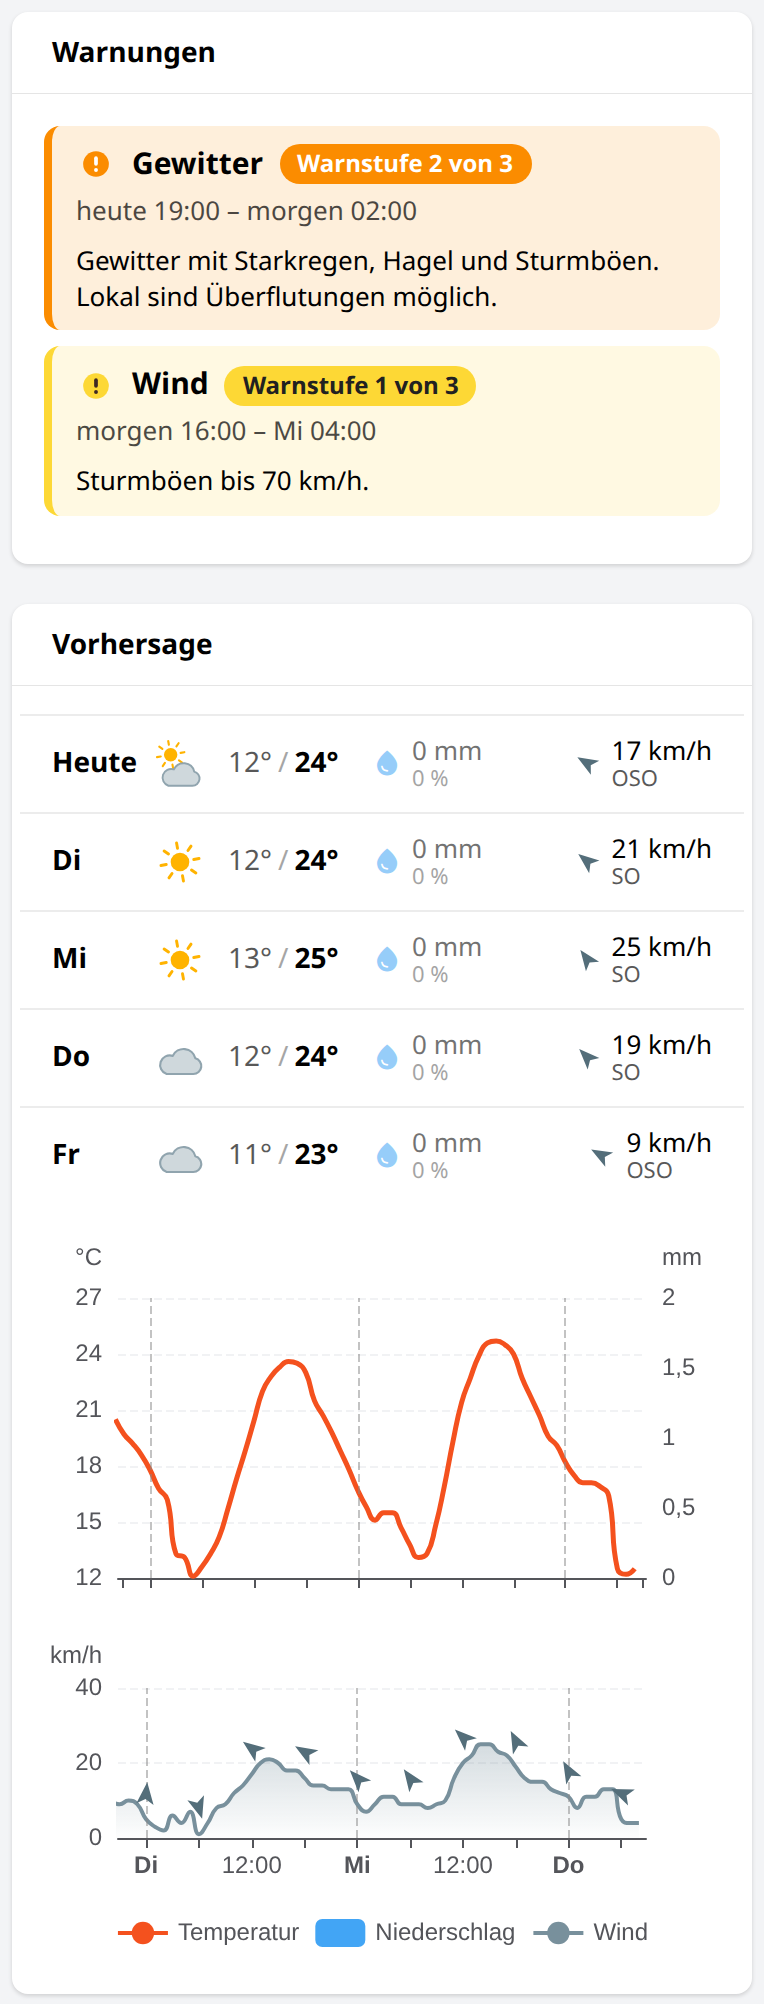
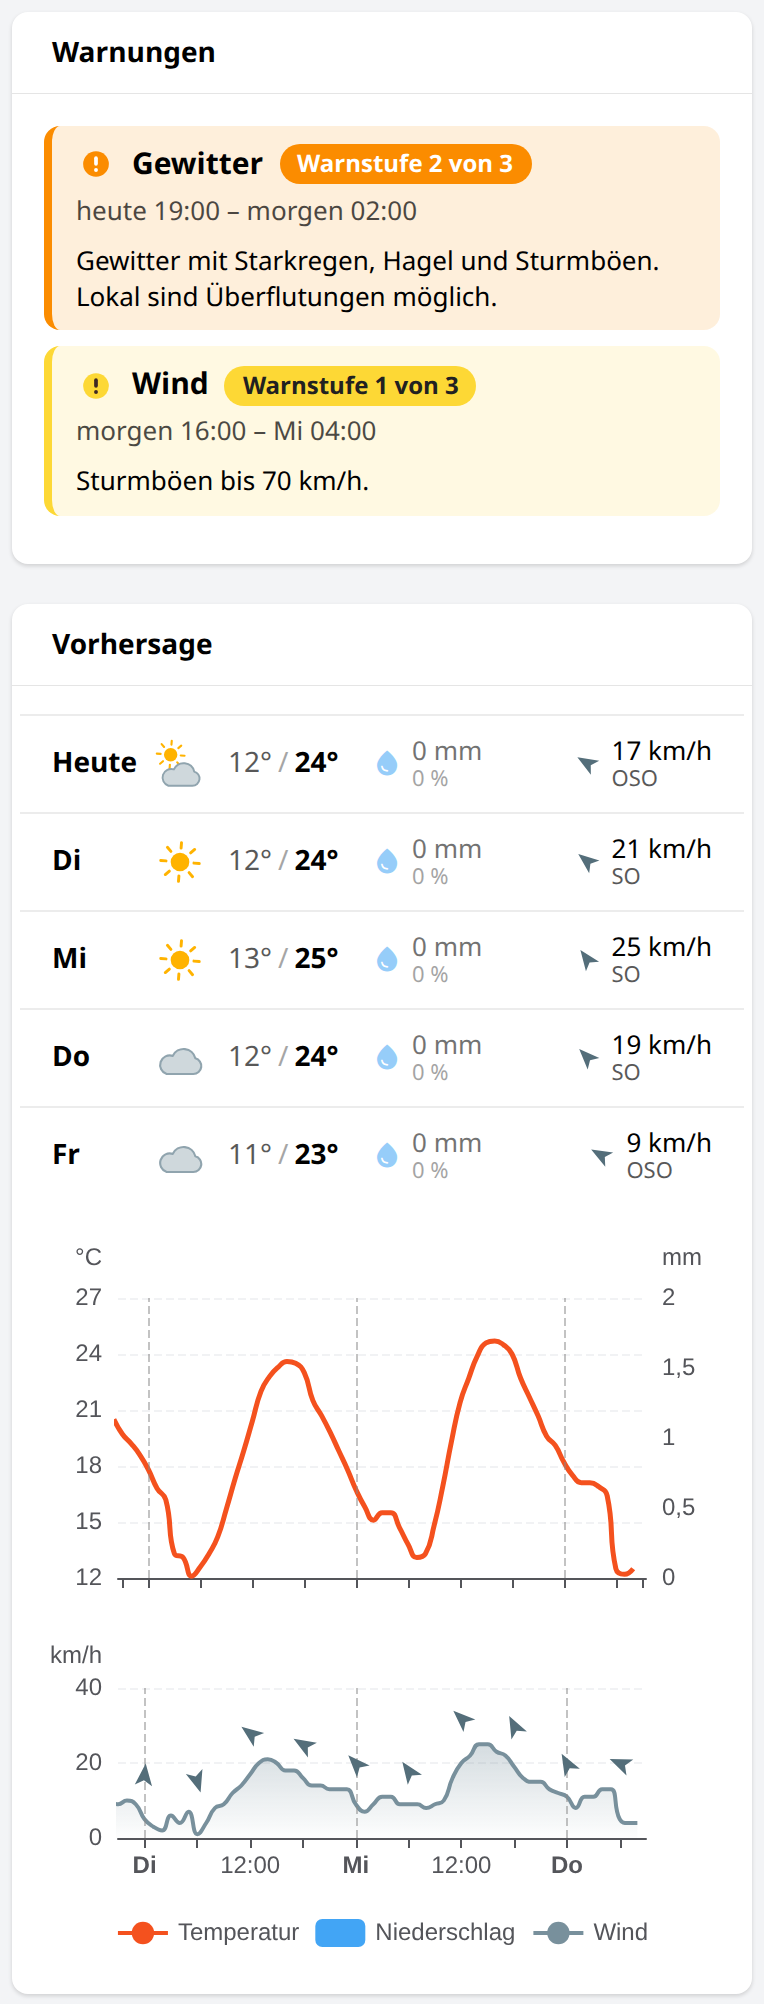
scripts: wind arrows clear of a steep wind line
- Each arrow of the forecast chart stands over the strongest wind from two
  hours before to two after its time, as wide as an arrow is on the time
  axis, so a line rising beside it no longer touches it
- Forecast popup screenshots retaken

diff --git a/scripts/openhab-ui/dashboard.py b/scripts/openhab-ui/dashboard.py
@@ -941,13 +941,17 @@ def wx_wind_arrow(deg, size, visible):
 
 
 def wx_wind_arrows():
-    """The wind's direction along its line, every three hours, every six on a phone: arrows a little above it."""
+    """The wind's direction along its line, every three hours, every six on a phone: arrows a little above it. Each
+    stands over the strongest wind from two hours before to two after, as wide as an arrow is on the time axis, so
+    a steep line beside it never touches it."""
     every = f"({NARROW} ? 6 : 3)"
-    rows = f"{wx_json(WX_HOURLY)}.filter((r) => r[3] != null && r[4] != null && dayjs(r[0] * 1000).hour() % {every} === 0)"
+    shown = f"r[3] != null && r[4] != null && dayjs(r[0] * 1000).hour() % {every} === 0"
+    peak = "a.slice(Math.max(0, i - 2), i + 3).reduce((m, x) => Math.max(m, x[3] || 0), 0)"
     return {"symbol": f"path://{WX_ARROW}", "symbolSize": 11, "symbolKeepAspect": True, "symbolOffset": [0, -13],
             "silent": True, "label": {"show": False}, "itemStyle": {"color": WX_ARROW_COLOR},
             # ECharts turns a symbol counter-clockwise
-            "data": f"={rows}.map((r) => ({{coord: [r[0] * 1000, r[3]], symbolRotate: -(r[4] + 180)}}))"}
+            "data": f"={wx_json(WX_HOURLY)}.map((r, i, a) => {shown} ? ({{coord: [r[0] * 1000, {peak}], "
+                    f"symbolRotate: -(r[4] + 180)}}) : null).filter((p) => p)"}
 
 
 def wx_hourly(index):
